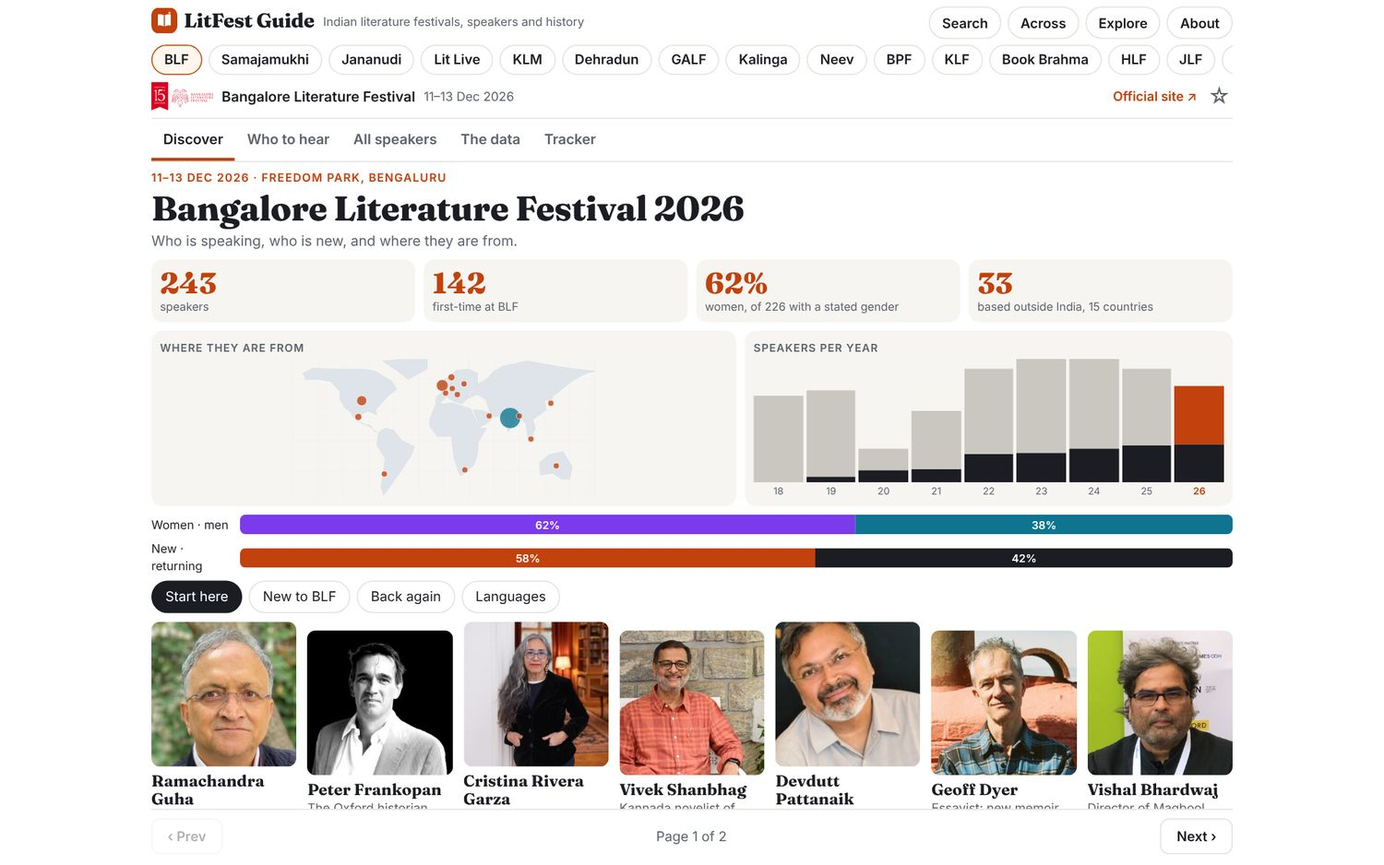
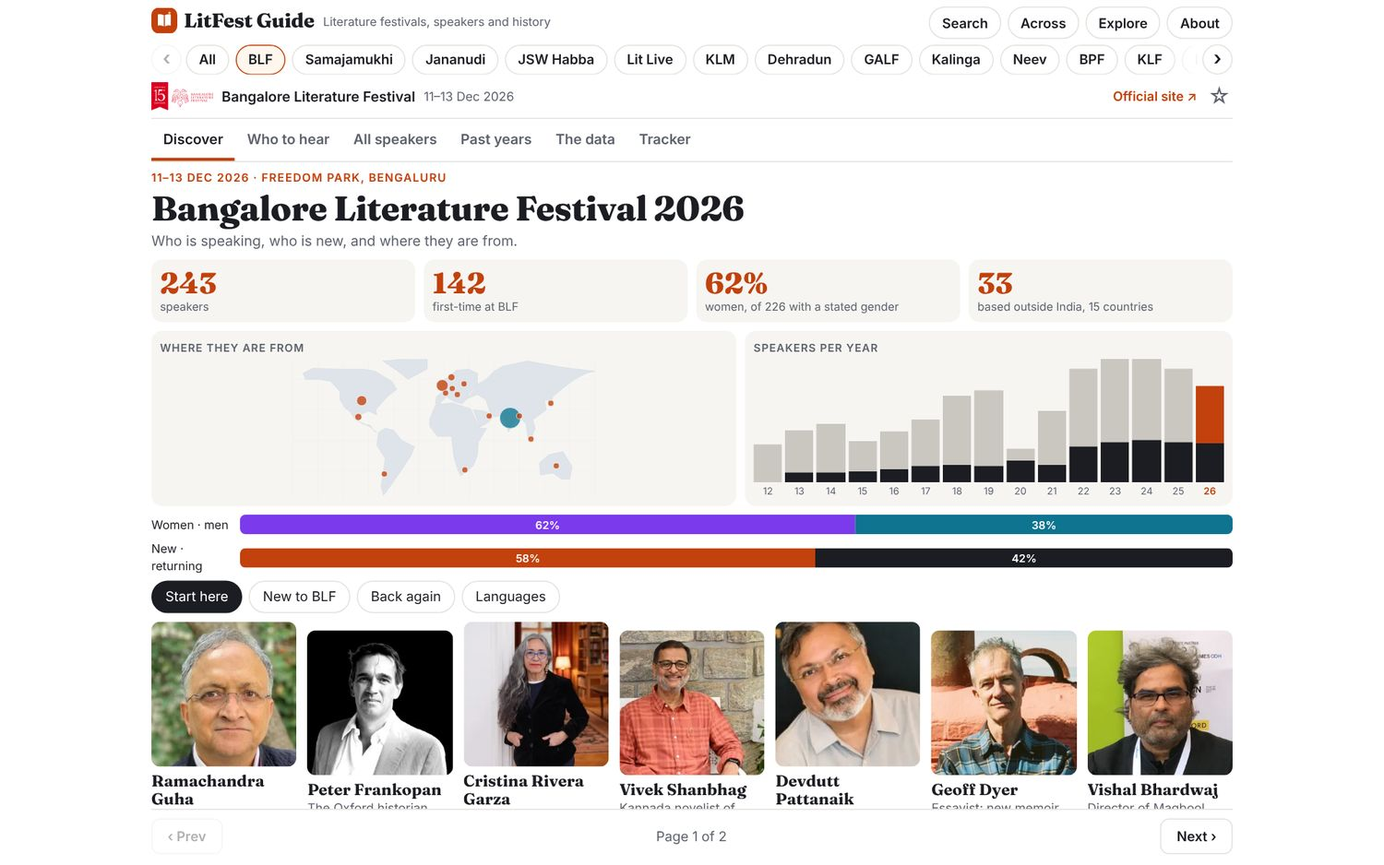
Update press note and wording: literature festivals starting with India, now including Wales; new screenshots, Past years, daily check

diff --git a/press/press-note.html b/press/press-note.html
@@ -2,7 +2,7 @@
 <html lang="en"><head><meta charset="utf-8"><meta name="viewport" content="width=device-width,initial-scale=1">
 <title>LitFest Guide Press Note</title>
 <meta name="claude:viewport-fit-sides" content="cover">
-<meta name="description" content="Press note: LitFest Guide, a free app that maps who speaks at India's literature festivals.">
+<meta name="description" content="Press note: LitFest Guide, a free app that maps who speaks at literature festivals, starting with India.">
 <link rel="stylesheet" href="../fonts/fonts.css">
 <style>
 /* Layout: one editorial column, hero pairing a desktop window with a phone, then alternating feature rows. White ground, ink text, one orange accent from the app itself. */
@@ -81,14 +81,14 @@ p{margin:0 0 14px;max-width:44em}
   <header class="top">
     <img src="../assets/icon-192.png" alt="LitFest Guide logo">
     <b>LitFest Guide</b>
-    <span>Press note · For immediate release · 24 November 2026</span>
+    <span>Press note · Updated 25 November 2026</span>
   </header>
 
   <div class="hero">
     <div>
       <p class="kick">New, free and open source</p>
-      <h1>A pocket guide to who speaks at India’s literature festivals</h1>
-      <p class="dek">LitFest Guide gathers the speaker lists of 16 Indian literature festivals into one app. Readers can see who is coming, who is new, who keeps coming back, and which books to pick up before they go.</p>
+      <h1>A pocket guide to who speaks at literature festivals, starting with India</h1>
+      <p class="dek">LitFest Guide gathers the speaker lists of 19 literature festivals, 18 in India and one in Wales, into one app, with three more international festivals on the way. Readers can see who is coming, who is new, who keeps coming back, what happened in any earlier year, and which books to pick up before they go.</p>
       <p class="meta">Works on any phone or laptop. Installs like an app, opens offline, needs no account.</p>
     </div>
     <div class="stage">
@@ -98,16 +98,16 @@ p{margin:0 0 14px;max-width:44em}
   </div>
 
   <ul class="figs">
-    <li><b>16</b><span>festivals with speaker data, from Bengaluru to Jaipur, Kolkata, Kozhikode and Bhopal</span></li>
-    <li><b>8,500</b><span>writers, thinkers and artists tracked across 2016 to 2027</span></li>
-    <li><b>13,700</b><span>festival appearances, so you can see who returns</span></li>
-    <li><b>2,500</b><span>book entries, with covers, to start a reading list</span></li>
+    <li><b>19</b><span>festivals live: 18 across India, from Bengaluru to Jaipur, Kolkata, Kozhikode and Wayanad, plus one in Wales</span></li>
+    <li><b>9,000</b><span>writers, thinkers and artists tracked across editions from 2012 to 2027</span></li>
+    <li><b>15,000</b><span>festival appearances, so you can see who returns and when</span></li>
+    <li><b>9,700</b><span>speaker profiles with photos, and 2,800 book entries to start a reading list</span></li>
   </ul>
 
   <section class="lead">
     <h2>Every festival has a programme. Nobody had the whole picture.</h2>
     <p>Each festival publishes its speakers on its own website, in its own format, and last year’s list quietly disappears. A reader who loves Kannada poetry, or wants to catch the debut novelists, or simply wonders whether a favourite author tours the circuit, has had to open a dozen tabs.</p>
-    <p>LitFest Guide puts the lists side by side. Each festival gets one clean page per view, built for a thumb on a phone, with photos, countries, roles and past appearances.</p>
+    <p>LitFest Guide puts the lists side by side. Each festival gets one clean page per view, built for a thumb on a phone, with photos, countries, roles and past appearances. It started with India’s festival circuit and is now growing outward: the Hay Festival Winter Weekend in Wales is already in, and Galle (Sri Lanka), Edinburgh and the main Hay Festival are listed with their dates, with speakers to follow as they publish.</p>
   </section>
 
   <div class="row">
@@ -124,6 +124,18 @@ p{margin:0 0 14px;max-width:44em}
 
   <div class="row flip">
     <div class="txt">
+      <h3>See what happened last year, and the years before</h3>
+      <p>Every festival now has a <b>Past years</b> tab. Pick a year and see who spoke, how the line-up compares with the year before, who was new and who had been before. Profiles, photos and bios of earlier speakers are kept, so nothing disappears when a festival updates its website. Bangalore’s archive alone goes back to 2012.</p>
+      <ul class="ticks"><li>Year-by-year summary with the change from the previous year</li><li>Filters for first-timers, returning speakers and those back the next year</li><li>Open any name for their bio and photo</li></ul>
+    </div>
+    <div class="shots">
+      <div class="win"><img src="img/d-past.jpg" alt="Past years tab for the Bangalore Literature Festival showing 2023 with first-timer and returning counts" width="1500" height="800" loading="lazy"></div>
+      <div class="phone"><img src="img/m-past.jpg" alt="Phone view of the Past years tab" width="780" height="1688" loading="lazy"></div>
+    </div>
+  </div>
+
+  <div class="row">
+    <div class="txt">
       <h3>Follow writers across festivals</h3>
       <p>The Across view is a grid of every festival against every other, showing how many speakers they share. Jaipur and Bengaluru overlap by more than 300 people. Tap any square for the names. Search finds one person across every festival and year at once.</p>
     </div>
@@ -133,7 +145,7 @@ p{margin:0 0 14px;max-width:44em}
     </div>
   </div>
 
-  <div class="row">
+  <div class="row flip">
     <div class="txt">
       <h3>A bookshelf made of the festivals’ own books</h3>
       <p>Explore turns the data into things a book lover will enjoy browsing. The Shelf draws more than 800 books as spines on a wooden shelf; tap one for its cover, author and festival.</p>
@@ -145,10 +157,21 @@ p{margin:0 0 14px;max-width:44em}
     </div>
   </div>
 
+  <div class="row">
+    <div class="txt">
+      <h3>Beyond India</h3>
+      <p>The guide is no longer only about India. The Hay Festival Winter Weekend in Hay-on-Wye, Wales (26 to 29 November 2026) is live with its full programme: every event, venue and named speaker. Galle Literary Festival in Sri Lanka, the Edinburgh International Book Festival and the main Hay Festival are listed with their dates and will fill in as their speaker lists are published.</p>
+    </div>
+    <div class="shots">
+      <div class="win"><img src="img/d-hay.jpg" alt="Programme of the Hay Festival Winter Weekend with days, venues and events" width="1500" height="800" loading="lazy"></div>
+      <div class="phone"><img src="img/m-hay.jpg" alt="Phone view of the Hay Festival Winter Weekend programme" width="780" height="1688" loading="lazy"></div>
+    </div>
+  </div>
+
   <div class="row flip">
     <div class="txt">
       <h3>Never miss a festival</h3>
-      <p>The Upcoming tab counts down to every festival, adds the dates to your calendar with a reminder the day before, and can show a banner when a festival you follow is a week away. Bookmark festivals and speakers and they are waiting in one place.</p>
+      <p>The Upcoming tab counts down to every festival, adds the dates to your calendar with a reminder the day before, and can show a banner when a festival you follow is a week away. Bookmark festivals and speakers and they are waiting in one place. A daily check looks at each festival’s website, so newly announced speakers are noticed within a day.</p>
     </div>
     <div class="shots">
       <div class="win"><img src="img/d-upcoming.jpg" alt="List of upcoming festivals with countdowns, calendar and reminder buttons" width="1500" height="800" loading="lazy"></div>
@@ -159,19 +182,19 @@ p{margin:0 0 14px;max-width:44em}
   <section>
     <h2>Festivals covered</h2>
     <ul class="fests">
-      <li>Bangalore Literature Festival</li><li>Jaipur Literature Festival</li><li>Hyderabad Literary Festival</li><li>Kerala Literature Festival</li><li>Mathrubhumi International Festival of Letters</li><li>Tata Literature Live, Mumbai</li><li>Kolkata Literary Meet</li><li>Kalinga Literary Festival</li><li>Goa Arts and Literary Festival</li><li>Bhopal Literature and Art Festival</li><li>Dehradun Literature Festival</li><li>Neev Literature Festival</li><li>Bengaluru Poetry Festival</li><li>Book Brahma</li><li>Samajamukhi</li><li>Jananudi</li>
+      <li>Bangalore Literature Festival</li><li>Jaipur Literature Festival</li><li>Hyderabad Literary Festival</li><li>Kerala Literature Festival</li><li>Mathrubhumi International Festival of Letters</li><li>Tata Literature Live, Mumbai</li><li>Kolkata Literary Meet</li><li>Kalinga Literary Festival</li><li>Goa Arts and Literary Festival</li><li>Bhopal Literature and Art Festival</li><li>Dehradun Literature Festival</li><li>Neev Literature Festival</li><li>Bengaluru Poetry Festival</li><li>Wayanad Literature Festival</li><li>Book Brahma</li><li>JSW Sahitya Habba</li><li>Samajamukhi</li><li>Jananudi</li><li>Hay Festival Winter Weekend, Wales</li>
     </ul>
     <ul class="fests">
-      <li class="soon">Galle Literary Festival, Sri Lanka (dates listed)</li><li class="soon">Edinburgh International Book Festival (coming)</li><li class="soon">Hay Festival and Hay Winter Weekend (dates listed)</li>
+      <li class="soon">Galle Literary Festival, Sri Lanka (dates listed)</li><li class="soon">Edinburgh International Book Festival, Scotland (coming)</li><li class="soon">Hay Festival, Hay-on-Wye (dates listed)</li>
     </ul>
-    <p>Samajamukhi and Jananudi are Kannada festivals, with their programmes entered by hand from printed invitations. International festivals are being added as their speaker lists are published.</p>
+    <p>Samajamukhi, Jananudi and JSW Sahitya Habba are Kannada-region festivals whose programmes were entered by hand from printed invitations and agendas. International festivals are being added as their speaker lists are published, and suggestions are welcome.</p>
   </section>
 
   <div class="gal" aria-label="Phone screenshots">
+    <figure><div class="phone"><img src="img/m-home.jpg" alt="Home page listing every festival with countdowns" loading="lazy"></div><figcaption>Every festival, soonest first</figcaption></figure>
+    <figure><div class="phone"><img src="img/m-past.jpg" alt="Past years tab on a phone" loading="lazy"></div><figcaption>Past years</figcaption></figure>
     <figure><div class="phone"><img src="img/m-debuts.jpg" alt="Authors grouped by decade of earliest listed book" loading="lazy"></div><figcaption>Debuts by decade</figcaption></figure>
-    <figure><div class="phone"><img src="img/m-prizes.jpg" alt="Prize timeline by year" loading="lazy"></div><figcaption>Prize timeline</figcaption></figure>
     <figure><div class="phone"><img src="img/m-shelf.jpg" alt="Book shelf on a phone" loading="lazy"></div><figcaption>The shelf</figcaption></figure>
-    <figure><div class="phone"><img src="img/m-upcoming.jpg" alt="Upcoming festivals on a phone" loading="lazy"></div><figcaption>Upcoming festivals</figcaption></figure>
   </div>
 
   <div class="facts">
@@ -180,17 +203,19 @@ p{margin:0 0 14px;max-width:44em}
       <dt>Cost</dt><dd>Free. No ads, no account, no tracking. Your stars and bookmarks stay in your own browser.</dd>
       <dt>Works on</dt><dd>Any modern phone, tablet or laptop browser. Install it to the home screen like an app.</dd>
       <dt>Offline</dt><dd>After one visit, every festival’s data opens without a connection.</dd>
+      <dt>Languages</dt><dd>Menus and buttons in English, Kannada and Hindi (Kannada and Hindi are a first version).</dd>
+      <dt>Kept current</dt><dd>A daily automatic check watches each festival’s website for new or removed speakers.</dd>
       <dt>Open source</dt><dd>MIT licence. The data, the app and the tools that build them are public.</dd>
       <dt>Code and data</dt><dd><a href="https://github.com/omshivaprakash/litfest-speaker-guide">github.com/omshivaprakash/litfest-speaker-guide</a></dd>
       <dt>Try it</dt><dd><a href="https://omshivaprakash.github.io/litfest-speaker-guide/">omshivaprakash.github.io/litfest-speaker-guide</a></dd>
     </dl>
   </div>
 
-  <p class="note"><b>Notes for editors.</b> LitFest Guide is an independent project for education and research. It is not affiliated with, endorsed by or sponsored by any festival. Speaker lists come from each festival’s public pages; gender, country and role are inferred from bios and can be wrong or blank; books are matched by author name through Open Library. The festivals’ own sites are the final word on programmes. Corrections and removal requests are welcome through the project’s GitHub issues.</p>
+  <p class="note"><b>Notes for editors.</b> LitFest Guide is an independent project for education and research. It is not affiliated with, endorsed by or sponsored by any festival. Speaker lists come from each festival’s public pages (earlier years from their archives where they exist); gender, country and role are inferred from bios and can be wrong or blank; books are matched by author name through Open Library. The festivals’ own sites are the final word on programmes. Corrections and removal requests are welcome through the project’s GitHub issues.</p>
 
   <footer class="about">
     <h2 style="font-size:1.1rem">About the project</h2>
-    <p>LitFest Guide is built and maintained by omshivaprakash as a reader’s tool for India’s literature festival circuit. Festival organisers, authors and readers can suggest corrections, new festivals or new views through GitHub, or through <a href="https://omshivaprakash.github.io/">omshivaprakash.github.io</a>.</p>
+    <p>LitFest Guide is built and maintained by omshivaprakash as a reader’s tool for literature festivals, starting with India’s festival circuit. Festival organisers, authors and readers can suggest corrections, new festivals or new views through GitHub, or through <a href="https://omshivaprakash.github.io/">omshivaprakash.github.io</a>.</p>
     <p>Images: screenshots of the app on desktop and phone are free to use with a credit to LitFest Guide. Speaker photographs and festival logos belong to their owners. Press-size image files are in the project’s <code>press/img</code> folder.</p>
   </footer>
 </div>

diff --git a/index.html b/index.html
@@ -3,9 +3,9 @@
 <meta charset="utf-8">
 <meta name="viewport" content="width=device-width,initial-scale=1,viewport-fit=cover">
 <title>LitFest Guide</title>
-<meta name="description" content="Who speaks at 16 Indian literature festivals: who is new, who keeps coming back, books to read first. Free, works offline.">
-<meta property="og:type" content="website"><meta property="og:site_name" content="LitFest Guide"><meta property="og:title" content="LitFest Guide: Indian literature festivals, speakers and history">
-<meta property="og:description" content="See who is speaking at India's literature festivals, who is new, who keeps coming back, and which books to read first. Free, works offline.">
+<meta name="description" content="Who speaks at literature festivals, starting with India: who is new, who keeps coming back, books to read first. Free, works offline.">
+<meta property="og:type" content="website"><meta property="og:site_name" content="LitFest Guide"><meta property="og:title" content="LitFest Guide: literature festivals, speakers and history">
+<meta property="og:description" content="See who is speaking at literature festivals, starting with India, who is new, who keeps coming back, and which books to read first. Free, works offline.">
 <meta property="og:image" content="https://omshivaprakash.github.io/litfest-speaker-guide/assets/og.jpg"><meta property="og:image:width" content="1200"><meta property="og:image:height" content="630"><meta property="og:url" content="https://omshivaprakash.github.io/litfest-speaker-guide/">
 <meta name="twitter:card" content="summary_large_image"><meta name="twitter:image" content="https://omshivaprakash.github.io/litfest-speaker-guide/assets/og.jpg">
 <link rel="manifest" href="manifest.webmanifest">
@@ -514,7 +514,7 @@ $('tq').addEventListener('keydown',function(e){if(e.key==='Enter')$('tadd').clic
 $('tbody').addEventListener('click',function(e){var b=e.target.closest('[data-rm]');if(b){delete stars[S[+b.dataset.rm].n];save();tracker();return}var c=e.target.closest('[data-open]');if(c)openSheet(+c.dataset.open,c)});
 /* boot */
 
-var BUILD='202611250856ed5cf3a';var FC=['#7c2d12','#1e3a5f','#14532d','#581c87','#831843','#155e75','#a16207','#3f6212','#9a3412'],MAINC='#3f3f46',RL={p:'Speakers',c:'Moderator',m:'Host',r:'Respondents',g:'Guests',s:'Performers',h:'Chair',k:'Opening talk',v:'Poets'};
+var BUILD='202611251448fc29705';var FC=['#7c2d12','#1e3a5f','#14532d','#581c87','#831843','#155e75','#a16207','#3f6212','#9a3412'],MAINC='#3f3f46',RL={p:'Speakers',c:'Moderator',m:'Host',r:'Respondents',g:'Guests',s:'Performers',h:'Chair',k:'Opening talk',v:'Poets'};
 var KA=[[74.1,15.0],[74.35,14.4],[74.7,13.6],[74.9,12.9],[75.2,12.6],[75.8,12.1],[76.5,11.6],[77.2,11.65],[77.9,12.0],[78.4,12.8],[78.4,13.1],[77.6,13.3],[77.5,13.9],[77.8,14.4],[77.4,15.1],[77.6,16.1],[77.9,17.4],[77.2,18.45],[76.8,18.0],[76.3,17.6],[75.5,17.3],[75.0,17.1],[74.6,16.7],[74.2,15.9],[74.1,15.7]];
 var DIST={'Bengaluru':[77.59,12.97,'ಬೆಂಗಳೂರು'],'Ramanagara':[77.28,12.72,'ರಾಮನಗರ'],'Mysuru':[76.64,12.3,'ಮೈಸೂರು'],'Mandya':[76.9,12.52,'ಮಂಡ್ಯ'],'Chamarajanagar':[77.0,11.92,'ಚಾಮರಾಜನಗರ'],'Dakshina Kannada':[75.0,12.85,'ದಕ್ಷಿಣ ಕನ್ನಡ'],'Udupi':[74.78,13.4,'ಉಡುಪಿ'],'Uttara Kannada':[74.6,14.8,'ಉತ್ತರ ಕನ್ನಡ'],'Chikkamagaluru':[75.78,13.32,'ಚಿಕ್ಕಮಗಳೂರು'],'Tumakuru':[77.1,13.34,'ತುಮಕೂರು'],'Chitradurga':[76.4,14.23,'ಚಿತ್ರದುರ್ಗ'],'Koppal':[76.15,15.35,'ಕೊಪ್ಪಳ'],'Vijayanagara':[76.5,15.15,'ವಿಜಯನಗರ'],'Ballari':[76.92,15.14,'ಬಳ್ಳಾರಿ'],'Bagalkot':[75.7,16.18,'ಬಾಗಲಕೋಟೆ'],'Gadag':[75.63,15.43,'ಗದಗ']};
 function progApp(f,D){
@@ -659,7 +659,7 @@ if(pre)inp.value=pre;if(GS.ready)fill();else gsLoad(L,fill);setTimeout(function(
 function aboutOpen(){var o=document.createElement('div');o.className='gso';o.setAttribute('role','dialog');o.setAttribute('aria-modal','true');
 var G='https://github.com/omshivaprakash/litfest-speaker-guide';
 o.innerHTML='<div class="gsh"><h2 class="gh"><img class="lgm" src="assets/logo.svg" alt=""><span>About this portal</span></h2><button id="abx">Close</button></div><div class="abt">'+
-'<p>An independent, non-commercial project for <b>education and research</b>. It helps readers explore who speaks at Indian literature festivals and how that changes over the years. It is not affiliated with, endorsed by or sponsored by any festival.</p>'+
+'<p>An independent, non-commercial project for <b>education and research</b>. It helps readers explore who speaks at literature festivals, starting with India, and how that changes over the years. It is not affiliated with, endorsed by or sponsored by any festival.</p>'+
 '<h4>Where the information comes from</h4><p>Each festival’s public speaker pages, schedules and bios, plus Open Library for book titles and covers. Some programmes were typed in by hand from printed invitations. Official sources always win: please check the festival’s own site for the final programme.</p>'+
 '<h4>What to keep in mind</h4><p>Gender, country, role and language are inferred from bios and can be wrong or blank. “First-time” only means a name was not found in the lists we have. Books are matched by author name and can include a same-name author. Maps are schematic.</p>'+
 '<h4>How the guessed fields are worked out</h4><p><b>Gender:</b> only from she/her or he/his in a bio, and left unknown when the bio is missing or mixed. <b>Country and city:</b> from places named in the bio, or stated by the festival where it prints them. <b>Role:</b> from keywords in the bio such as “journalist” or “poet”. <b>Language:</b> read from the bio or the session. <b>First-time:</b> not found in the lists we collected, so it depends on how many years we have. <b>Books:</b> titles named in the bio, or Open Library entries whose author name matches exactly. <b>Across festivals:</b> people are matched by spelling of their name, so a spelling variant counts as two people, and festivals cover different years.</p>'+
@@ -723,11 +723,11 @@ if('serviceWorker' in navigator&&/^https?:$/.test(location.protocol)){window.add
 function favF(){try{return JSON.parse(localStorage.getItem('litfest_favf')||'[]')}catch(e){return []}}
 function fbmInit(f){var b=document.getElementById('fbm');if(!b)return;function r(){var on=favF().indexOf(f.id)>-1;b.textContent=on?'\u2605':'\u2606';b.classList.toggle('on',on);b.title=on?'Bookmarked. Tap to remove':'Bookmark this festival'}b.onclick=function(){var a=favF(),i=a.indexOf(f.id);if(i>-1)a.splice(i,1);else a.push(f.id);try{localStorage.setItem('litfest_favf',JSON.stringify(a))}catch(e){}r()};r()}
 function installApp(){if(DEFER){DEFER.prompt();DEFER=null}else alert('To install: in your browser menu choose “Install app” or “Add to Home screen”. On iPhone use Share → Add to Home Screen.')}
-function landing(L){document.title='LitFest Guide: Indian literature festivals, speakers and history';alertBar(L);document.querySelector('.tabs').style.display='none';document.querySelectorAll('.view').forEach(function(v){v.style.display='none'});
+function landing(L){document.title='LitFest Guide: literature festivals, speakers and history';alertBar(L);document.querySelector('.tabs').style.display='none';document.querySelectorAll('.view').forEach(function(v){v.style.display='none'});
 var n=L.festivals.filter(function(f){return !f.archive}).length,live=L.festivals.filter(function(f){return f.status==='live'&&!f.archive}).length;
 var F=L.festivals.map(function(f){return {f:f,u:f.archive?{k:'past',t:'Archive'}:f.start?untilTxt(f):{k:'tbc',t:'Dates to be announced'}}});
 var rank={now:0,soon:1,tbc:2,past:3};F.sort(function(a,b){return rank[a.u.k]-rank[b.u.k]||(a.f.start&&b.f.start?(a.u.k==='past'?dday(b.f.start)-dday(a.f.start):dday(a.f.start)-dday(b.f.start)):0)});
-var d=document.createElement('section');d.className='land';d.innerHTML='<div class="lh"><h1>Who speaks at India’s literature festivals</h1><p>'+live+' festivals with speaker lists and history, and '+(n-live)+' more on the way. Pick one to start, or use Search, Across and Explore above.</p>'+'<div class="lsw" role="group" aria-label="Language"><button data-lang="en">English</button><button data-lang="kn">ಕನ್ನಡ</button><button data-lang="hi">हिन्दी</button></div>'+'</div><div class="lg">'+F.map(function(x){var f=x.f;return '<a class="lc" href="?f='+f.id+'">'+(f.logo?'<img src="'+esc(f.logo)+'" alt="" loading="lazy">':'<span class="lx"></span>')+'<div><b>'+esc(f.name)+'</b><span>'+esc((f.dates||'').replace(/ \(.*$/,''))+(f.venue?' · '+esc(f.venue.split(',').slice(-1)[0].trim()):'')+'</span></div><em class="exwhen '+x.u.k+'">'+esc(x.f.status==='live'||x.u.k==='soon'||x.u.k==='now'?x.u.t:x.u.t)+'</em></a>'}).join('')+'</div>';
+var d=document.createElement('section');d.className='land';d.innerHTML='<div class="lh"><h1>Who speaks at literature festivals, starting with India</h1><p>'+live+' festivals with speaker lists and history, and '+(n-live)+' more on the way. Pick one to start, or use Search, Across and Explore above.</p>'+'<div class="lsw" role="group" aria-label="Language"><button data-lang="en">English</button><button data-lang="kn">ಕನ್ನಡ</button><button data-lang="hi">हिन्दी</button></div>'+'</div><div class="lg">'+F.map(function(x){var f=x.f;return '<a class="lc" href="?f='+f.id+'">'+(f.logo?'<img src="'+esc(f.logo)+'" alt="" loading="lazy">':'<span class="lx"></span>')+'<div><b>'+esc(f.name)+'</b><span>'+esc((f.dates||'').replace(/ \(.*$/,''))+(f.venue?' · '+esc(f.venue.split(',').slice(-1)[0].trim()):'')+'</span></div><em class="exwhen '+x.u.k+'">'+esc(x.f.status==='live'||x.u.k==='soon'||x.u.k==='now'?x.u.t:x.u.t)+'</em></a>'}).join('')+'</div>';
 document.querySelector('.app').appendChild(d)}
 function edgeFade(l){if(!l||l._ef)return;l._ef=1;function u(){var m=l.scrollWidth-l.clientWidth;l.classList.toggle('fl-l',l.scrollLeft>4);l.classList.toggle('fl-r',l.scrollLeft<m-4)}l.addEventListener('scroll',u,{passive:true});window.addEventListener('resize',u);setTimeout(u,0);l._efu=u;var a=l.querySelector('.on,[aria-selected=true]');if(a)l.scrollLeft=Math.max(0,a.offsetLeft-l.clientWidth/2+a.offsetWidth/2)}
 function fbScroll(){var l=$('fbl');if(!l)return;var bs=document.querySelectorAll('.fba');
@@ -751,7 +751,7 @@ document.addEventListener('touchend',function(e){if(!TS)return;var t=e.changedTo
 function boot(){
 fetch('festivals.json?v='+BUILD).then(function(r){return r.json()}).then(function(L){
 window.__L=L;var id=(new URLSearchParams(location.search)).get('f')||L.default,f=null;L.festivals.forEach(function(x){if(x.id===id)f=x});if(!f)f=L.festivals[0];FE=f;
-var h='<div class="brand"><b><a href="./" class="home" title="LitFest Guide home"><img class="lgm" src="assets/logo.svg" alt="">LitFest Guide</a></b><span class="bt">Indian literature festivals, speakers and history</span><div class="bb"><button class="fsearch" id="gsb" aria-label="Search all festivals">Search</button><button class="fsearch" id="axb2">Across</button><button class="fsearch" id="exb2">Explore</button><button class="fsearch" id="abb" aria-label="About and disclaimer">About</button></div></div><div class="fbw"><button class="fba" data-d="-1" aria-label="Scroll festivals left">‹</button><div class="fb-l" id="fbl"><a class="fchip allc" href="./" title="All festivals"><span>All</span></a>';
+var h='<div class="brand"><b><a href="./" class="home" title="LitFest Guide home"><img class="lgm" src="assets/logo.svg" alt="">LitFest Guide</a></b><span class="bt">Literature festivals, speakers and history</span><div class="bb"><button class="fsearch" id="gsb" aria-label="Search all festivals">Search</button><button class="fsearch" id="axb2">Across</button><button class="fsearch" id="exb2">Explore</button><button class="fsearch" id="abb" aria-label="About and disclaimer">About</button></div></div><div class="fbw"><button class="fba" data-d="-1" aria-label="Scroll festivals left">‹</button><div class="fb-l" id="fbl"><a class="fchip allc" href="./" title="All festivals"><span>All</span></a>';
 L.festivals.forEach(function(x){h+='<a class="fchip'+(x.id===f.id?' on':'')+'" href="?f='+x.id+'" title="'+esc(x.name)+'"><span>'+esc(x.short)+'</span>'+(x.status==='live'?'':'<em>soon</em>')+'</a>'});
 h+='</div><button class="fba" data-d="1" aria-label="Scroll festivals right">›</button></div><div class="fline">'+(f.logo?'<img src="'+esc(f.logo)+'" alt="">':'')+'<span class="fn">'+esc(f.name)+'</span><span class="fd">'+esc((f.dates||'').replace(/ \(.*$/,''))+'</span>'+(f.url?'<a class="fext" target="_blank" rel="noopener" href="'+esc(f.url)+'">Official site \u2197</a>':'')+'<button class="fbm" id="fbm" aria-label="Bookmark this festival"></button></div>';$('fbar').innerHTML=h;fbmInit(f);fbScroll();[].forEach.call(document.querySelectorAll('.tabs'),edgeFade);$('gsb').onclick=function(){gsOpen(L)};$('axb2').onclick=function(){acrossOpen(L)};$('exb2').onclick=function(){exOpen(L)};$('abb').onclick=aboutOpen;var OP=(new URLSearchParams(location.search)).get('open');if(OP==='upcoming'||OP==='mine'){setTimeout(function(){exOpen(L,OP==='mine'?'mine':'soon')},300)}
 if(!(new URLSearchParams(location.search)).has('f')&&!(new URLSearchParams(location.search)).has('q')&&!(new URLSearchParams(location.search)).has('open')&&!location.hash){document.querySelectorAll('.fchip.on').forEach(function(c){c.classList.remove('on')});var ac=document.querySelector('.allc');if(ac)ac.classList.add('on');$('fbar').querySelector('.fline').style.display='none';return landing(L)}

diff --git a/sw.js b/sw.js
@@ -1,6 +1,6 @@
 /* LitFest Guide service worker: the whole site is static files, so after the first visit it runs offline.
    Bump VERSION when index.html changes shape; data files refresh in the background on every visit. */
-var VERSION='litfest-202611250856ed5cf3a',SHELL=['./','index.html','manifest.webmanifest','fonts/fonts.css','assets/logo.svg','explore.js','i18n.js','assets/icon-192.png','assets/icon-512.png','festivals.json'];
+var VERSION='litfest-202611251448fc29705',SHELL=['./','index.html','manifest.webmanifest','fonts/fonts.css','assets/logo.svg','explore.js','i18n.js','assets/icon-192.png','assets/icon-512.png','festivals.json'];
 self.addEventListener('install',function(e){e.waitUntil(caches.open(VERSION).then(function(c){return c.addAll(SHELL).then(function(){return fetch('festivals.json').then(function(r){return r.json()}).then(function(L){var u=['data/debut.json','data/history-all.json'];L.festivals.forEach(function(f){if(f.status==='live'){['data','history','stats'].forEach(function(k){u.push(f.base+k+'.json')})}});return Promise.all(u.map(function(x){return c.add(x).catch(function(){})}))}).catch(function(){})})}).then(function(){return self.skipWaiting()}))});
 self.addEventListener('activate',function(e){e.waitUntil(caches.keys().then(function(k){return Promise.all(k.filter(function(x){return x!==VERSION}).map(function(x){return caches.delete(x)}))}).then(function(){return self.clients.claim()}))});
 self.addEventListener('fetch',function(e){var r=e.request;if(r.method!=='GET')return;var u=new URL(r.url);if(u.origin!==location.origin)return;

diff --git a/README.md b/README.md
@@ -1,6 +1,6 @@
 # LitFest Guide
 
-**One free guide to who speaks at India's literature festivals, who is new, who keeps coming back, and what to read before you go.**
+**One free guide to who speaks at literature festivals, starting with India: who is new, who keeps coming back, and what to read before you go.**
 
 Open it here: **https://omshivaprakash.github.io/litfest-speaker-guide/**
 Works on any phone or laptop. No account, no ads, no app store. You can install it like an app, and it keeps working without internet after your first visit.
@@ -53,9 +53,9 @@ Detailed steps are in the **[User guide](docs/USER-GUIDE.md)**.
 
 ## Festivals covered
 
-**Live now (19):** Bangalore Literature Festival · Jaipur Literature Festival · Hyderabad Literary Festival · Kerala Literature Festival · Mathrubhumi International Festival of Letters · Literature Live! The Mumbai LitFest · Kolkata Literary Meet · Kalinga Literary Festival · Goa Arts and Literature Festival · Bhopal Literature & Art Festival · Dehradun Literature Festival · Neev Literature Festival · Bengaluru Poetry Festival · Wayanad Literature Festival · Book Brahma Literature Festival · JSW Sahitya Habba · Samajamukhi Sahitya Sammelana · Jananudi · Hay Festival Winter Weekend
+**Live now (19, 18 in India and 1 in Wales):** Bangalore Literature Festival · Jaipur Literature Festival · Hyderabad Literary Festival · Kerala Literature Festival · Mathrubhumi International Festival of Letters · Literature Live! The Mumbai LitFest · Kolkata Literary Meet · Kalinga Literary Festival · Goa Arts and Literature Festival · Bhopal Literature & Art Festival · Dehradun Literature Festival · Neev Literature Festival · Bengaluru Poetry Festival · Wayanad Literature Festival · Book Brahma Literature Festival · JSW Sahitya Habba · Samajamukhi Sahitya Sammelana · Jananudi · Hay Festival Winter Weekend
 
-**Listed with dates, speakers coming when published (3):** Galle Literary Festival (Sri Lanka) · Edinburgh International Book Festival · Hay Festival (Hay-on-Wye)
+**Beyond India:** Hay Festival Winter Weekend (Hay-on-Wye, Wales) is live now, and three more are listed with dates, with speakers to come when they publish: Galle Literary Festival (Sri Lanka), Edinburgh International Book Festival (Scotland) and Hay Festival (Hay-on-Wye, Wales). The guide started with India and is growing outward; suggestions for more are welcome.
 
 **By the numbers:** about 9,000 people and 15,000 festival appearances going back as far as 2012, around 1,900 speaker profiles with photos for the current editions, and about 7,700 more profiles of people who spoke in earlier years.
 
